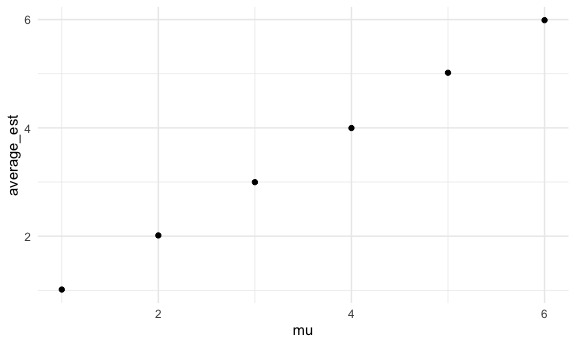
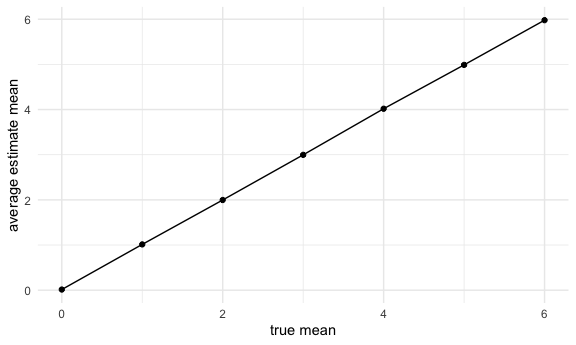
problem 3 - Added axis labels etc.

diff --git a/p8105_hw5_by2303.md b/p8105_hw5_by2303.md
@@ -5,14 +5,14 @@ Bin Yang
 
     library(tidyverse)
 
-    ## ── Attaching packages ─────────────────────────────────────── tidyverse 1.3.0 ──
+    ## ── Attaching packages ─────────────────────────────────────────────────────────────────── tidyverse 1.3.0 ──
 
     ## ✓ ggplot2 3.3.2     ✓ purrr   0.3.4
     ## ✓ tibble  3.0.3     ✓ dplyr   1.0.2
     ## ✓ tidyr   1.1.2     ✓ stringr 1.4.0
     ## ✓ readr   1.3.1     ✓ forcats 0.5.0
 
-    ## ── Conflicts ────────────────────────────────────────── tidyverse_conflicts() ──
+    ## ── Conflicts ────────────────────────────────────────────────────────────────────── tidyverse_conflicts() ──
     ## x dplyr::filter() masks stats::filter()
     ## x dplyr::lag()    masks stats::lag()
 
@@ -400,6 +400,10 @@ Problem 2
     ## `value` arguments are now deprecated. See labellers documentation.
 
 <img src="p8105_hw5_by2303_files/figure-gfm/unnamed-chunk-8-1.png" width="90%" />
+As we can see from the plot, observations in control group are showing a
+slight downward trend or fluctuating in the approximately same range
+during the study period; while observations in experiment groups are
+showing a upward trend in the study period.
 
 Problem 3
 ---------
@@ -408,6 +412,7 @@ Problem 3
 
     #data generating function 
     sim_data_fn = function(samp_size, mu = 0, sigma = 5) {
+      
       sim_data = 
         tibble(
           x = rnorm(n = samp_size, mean = mu, sd = sigma)
@@ -418,13 +423,13 @@ Problem 3
     set.seed(1234) 
 
     sim_results = 
-      tibble(mu = c(1,2,3,4,5,6)) %>% 
+      tibble(mu = c(0,1,2,3,4,5,6)) %>% 
       mutate(
       output_lists = map(.x = mu, ~rerun(5000, sim_data_fn(30, mu = .x)))
             ) %>% 
       unnest() %>% 
       mutate(
-        t_tests = map2(.x = output_lists, .y = mu, ~t.test(x = .x, mu = .y, conf.level = 0.95)),
+        t_tests = map(.x = output_lists, ~t.test(x = .x, mu = 0, conf.level = 0.95)),
         tidy_tests = map(.x = t_tests, ~broom::tidy(.x))
              ) %>% 
       unnest(tidy_tests) %>% 
@@ -435,6 +440,12 @@ Problem 3
 
 #### make plot
 
+-   A plot showing the proportion of times the null was rejected (the
+    power of the test) on the *y* axis and the true value of
+    *β*<sub>1</sub> on the *x* axis.
+
+<!-- -->
+
     sim_results %>% 
       group_by(mu) %>%
       summarise(
@@ -443,11 +454,25 @@ Problem 3
         p_prop = p_sum/count
       ) %>% 
       ggplot(aes(x = mu, y = p_prop)) +
-      geom_point()
+      geom_point() +
+      labs(
+        title = "Plot for Effect Size and Power",
+        x = "true mean",
+        y = "power of test"
+      )
 
     ## `summarise()` ungrouping output (override with `.groups` argument)
 
 <img src="p8105_hw5_by2303_files/figure-gfm/unnamed-chunk-10-1.png" width="90%" />
+
+comments: For any given population standard deviation, the greater the
+difference between the means of the null and alternative distributions,
+the greater the power.
+
+-   A plot showing the average estimate of *μ̂* on the *y* axis and the
+    true value of *μ* on the *x* axis:
+
+<!-- -->
 
     sim_results %>% 
       group_by(mu) %>% 
@@ -455,11 +480,31 @@ Problem 3
         average_est = mean(estimate)
       ) %>% 
       ggplot(aes(x = mu, y = average_est)) +
-      geom_point()
+      geom_point() +
+      geom_line()+
+      labs(
+        x = "true mean",
+        y = "average estimate mean"
+      ) 
 
     ## `summarise()` ungrouping output (override with `.groups` argument)
 
 <img src="p8105_hw5_by2303_files/figure-gfm/unnamed-chunk-11-1.png" width="90%" />
+
+-   A plot showing the average estimate of *μ̂* on the *y* axis and the
+    true value of *μ* on the *x* axis only in samples for which the null
+    was rejected:
+
+<!-- -->
+
+    overall_df = 
+      sim_results %>% 
+      group_by(mu) %>% 
+      summarise(
+        average_est = mean(estimate)
+      ) 
+
+    ## `summarise()` ungrouping output (override with `.groups` argument)
 
     sim_results %>% 
       filter(p.value < 0.05) %>% 
@@ -468,8 +513,24 @@ Problem 3
         average_est =  mean(estimate)
       ) %>% 
       ggplot(aes(x = mu, y = average_est)) +
-      geom_point()
+      geom_point() +
+      geom_line() + 
+      geom_point(data = overall_df) +
+      geom_line(data = overall_df, aes(x = mu, y = average_est), color = "red") + 
+      labs(
+        x = "true mean",
+        y = "average estimate mean"
+      )
 
     ## `summarise()` ungrouping output (override with `.groups` argument)
 
 <img src="p8105_hw5_by2303_files/figure-gfm/unnamed-chunk-12-1.png" width="90%" />
+comments: We can see that sample average of mu hat across tests for
+which the null is rejected is close to true mean for mu = 4,5 and 6;
+while for mu = 0, 1, 2, and 3, sample average of mu hat is significantly
+different from the true mean. We reject the null hypothesis when the
+estimate is significantly different from 0. Therefore for samples where
+mu is close to 0 (mu = 0, 1, 2, and 3), the average estimated mean will
+generally be larger than the true mean and for samples where mu is much
+larger than 0 (mu = 4, 5, 6), the average estimated mean will be
+approximately equal to the true mean.
